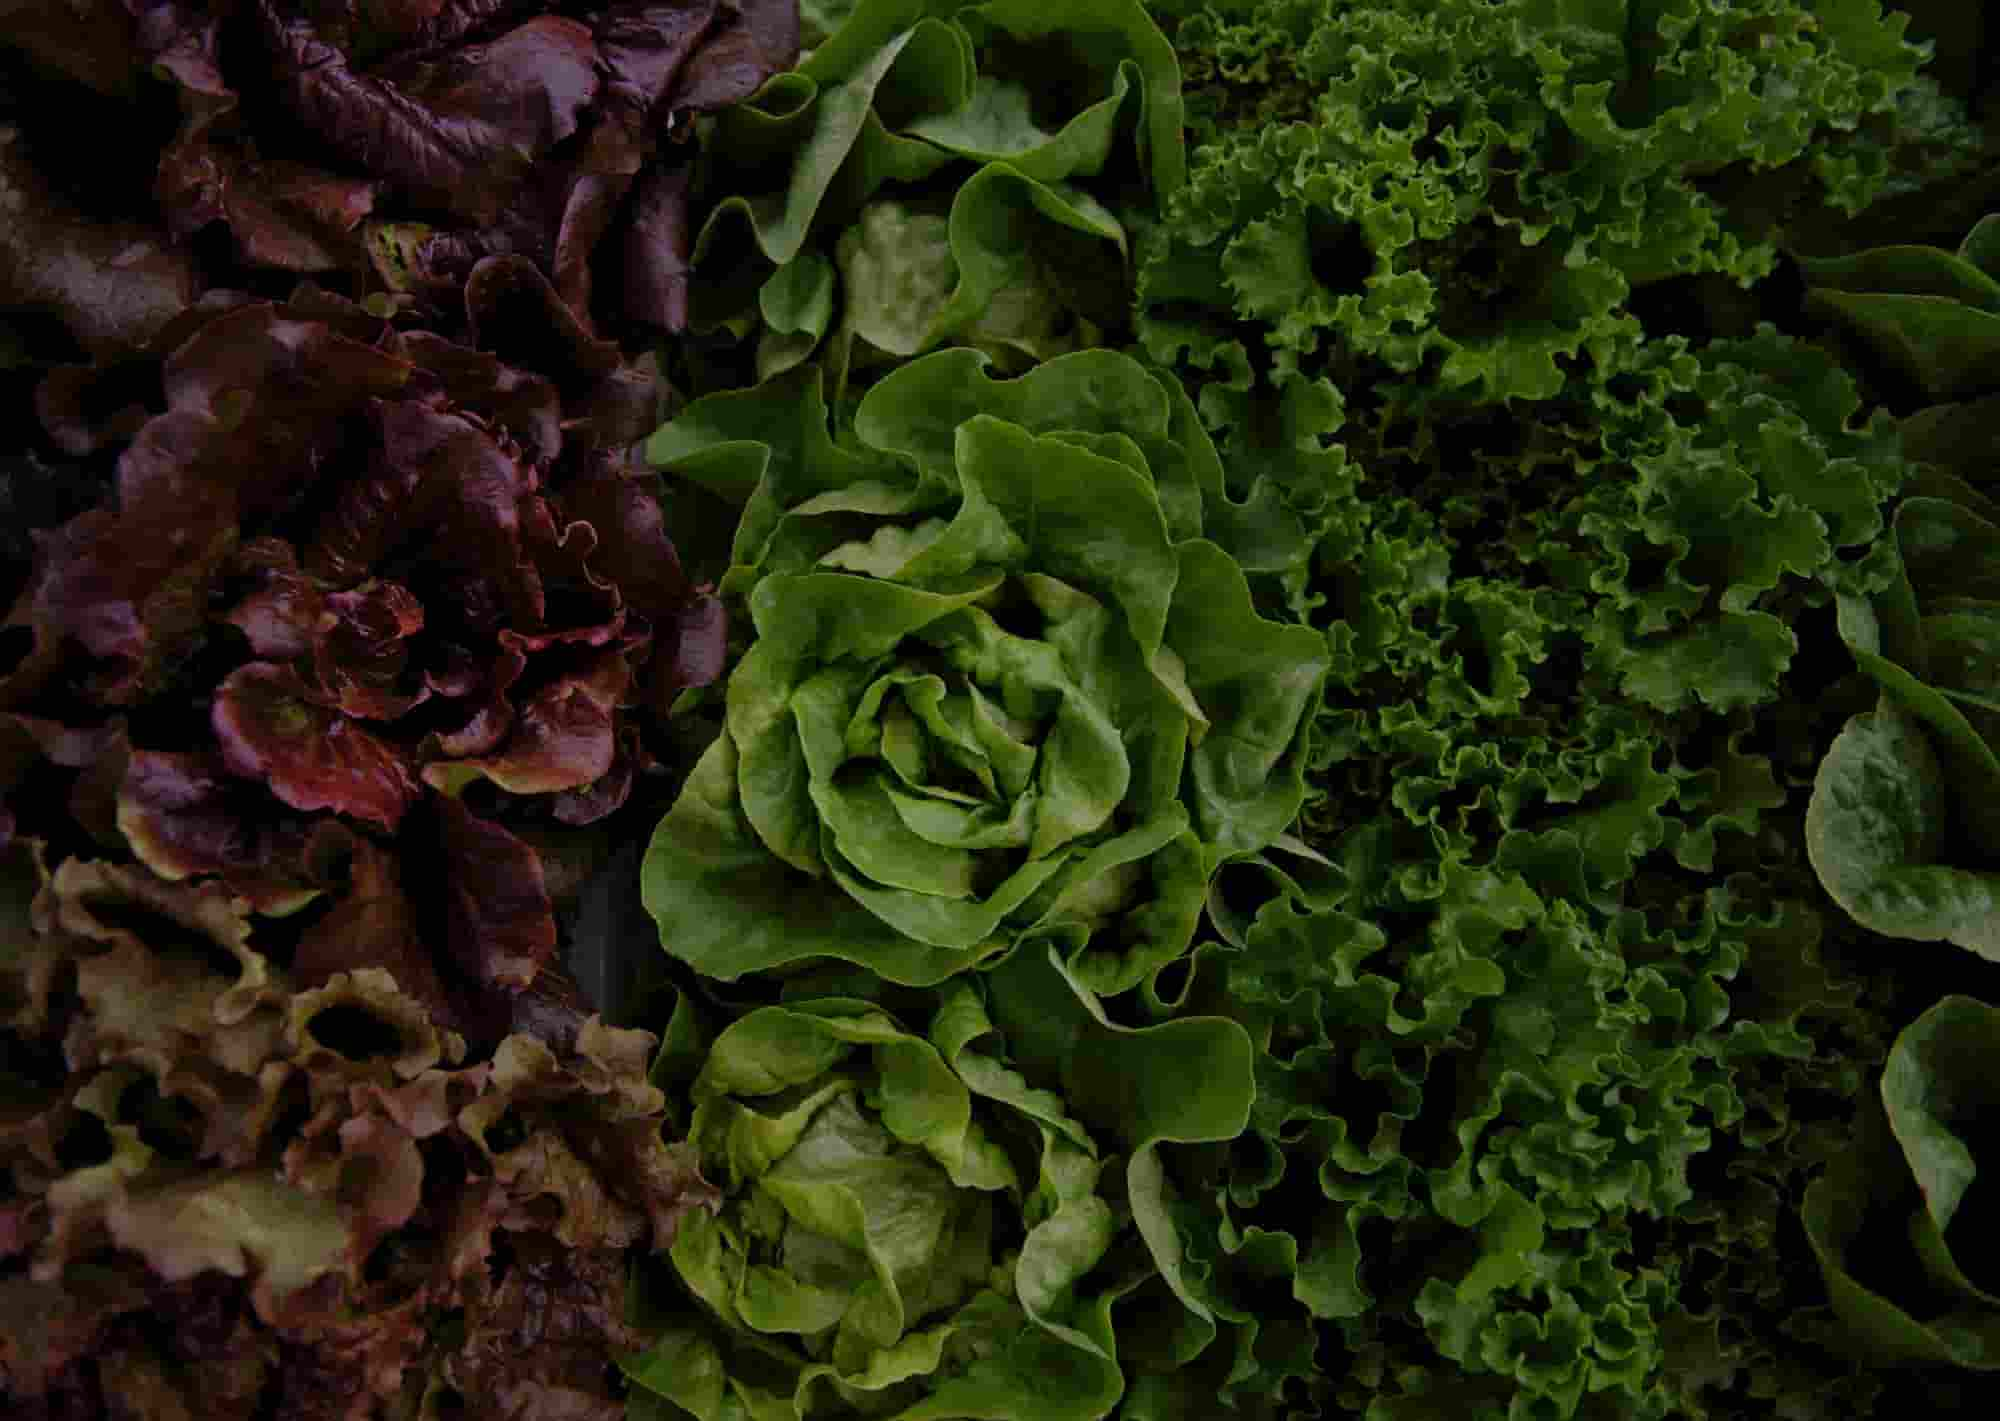
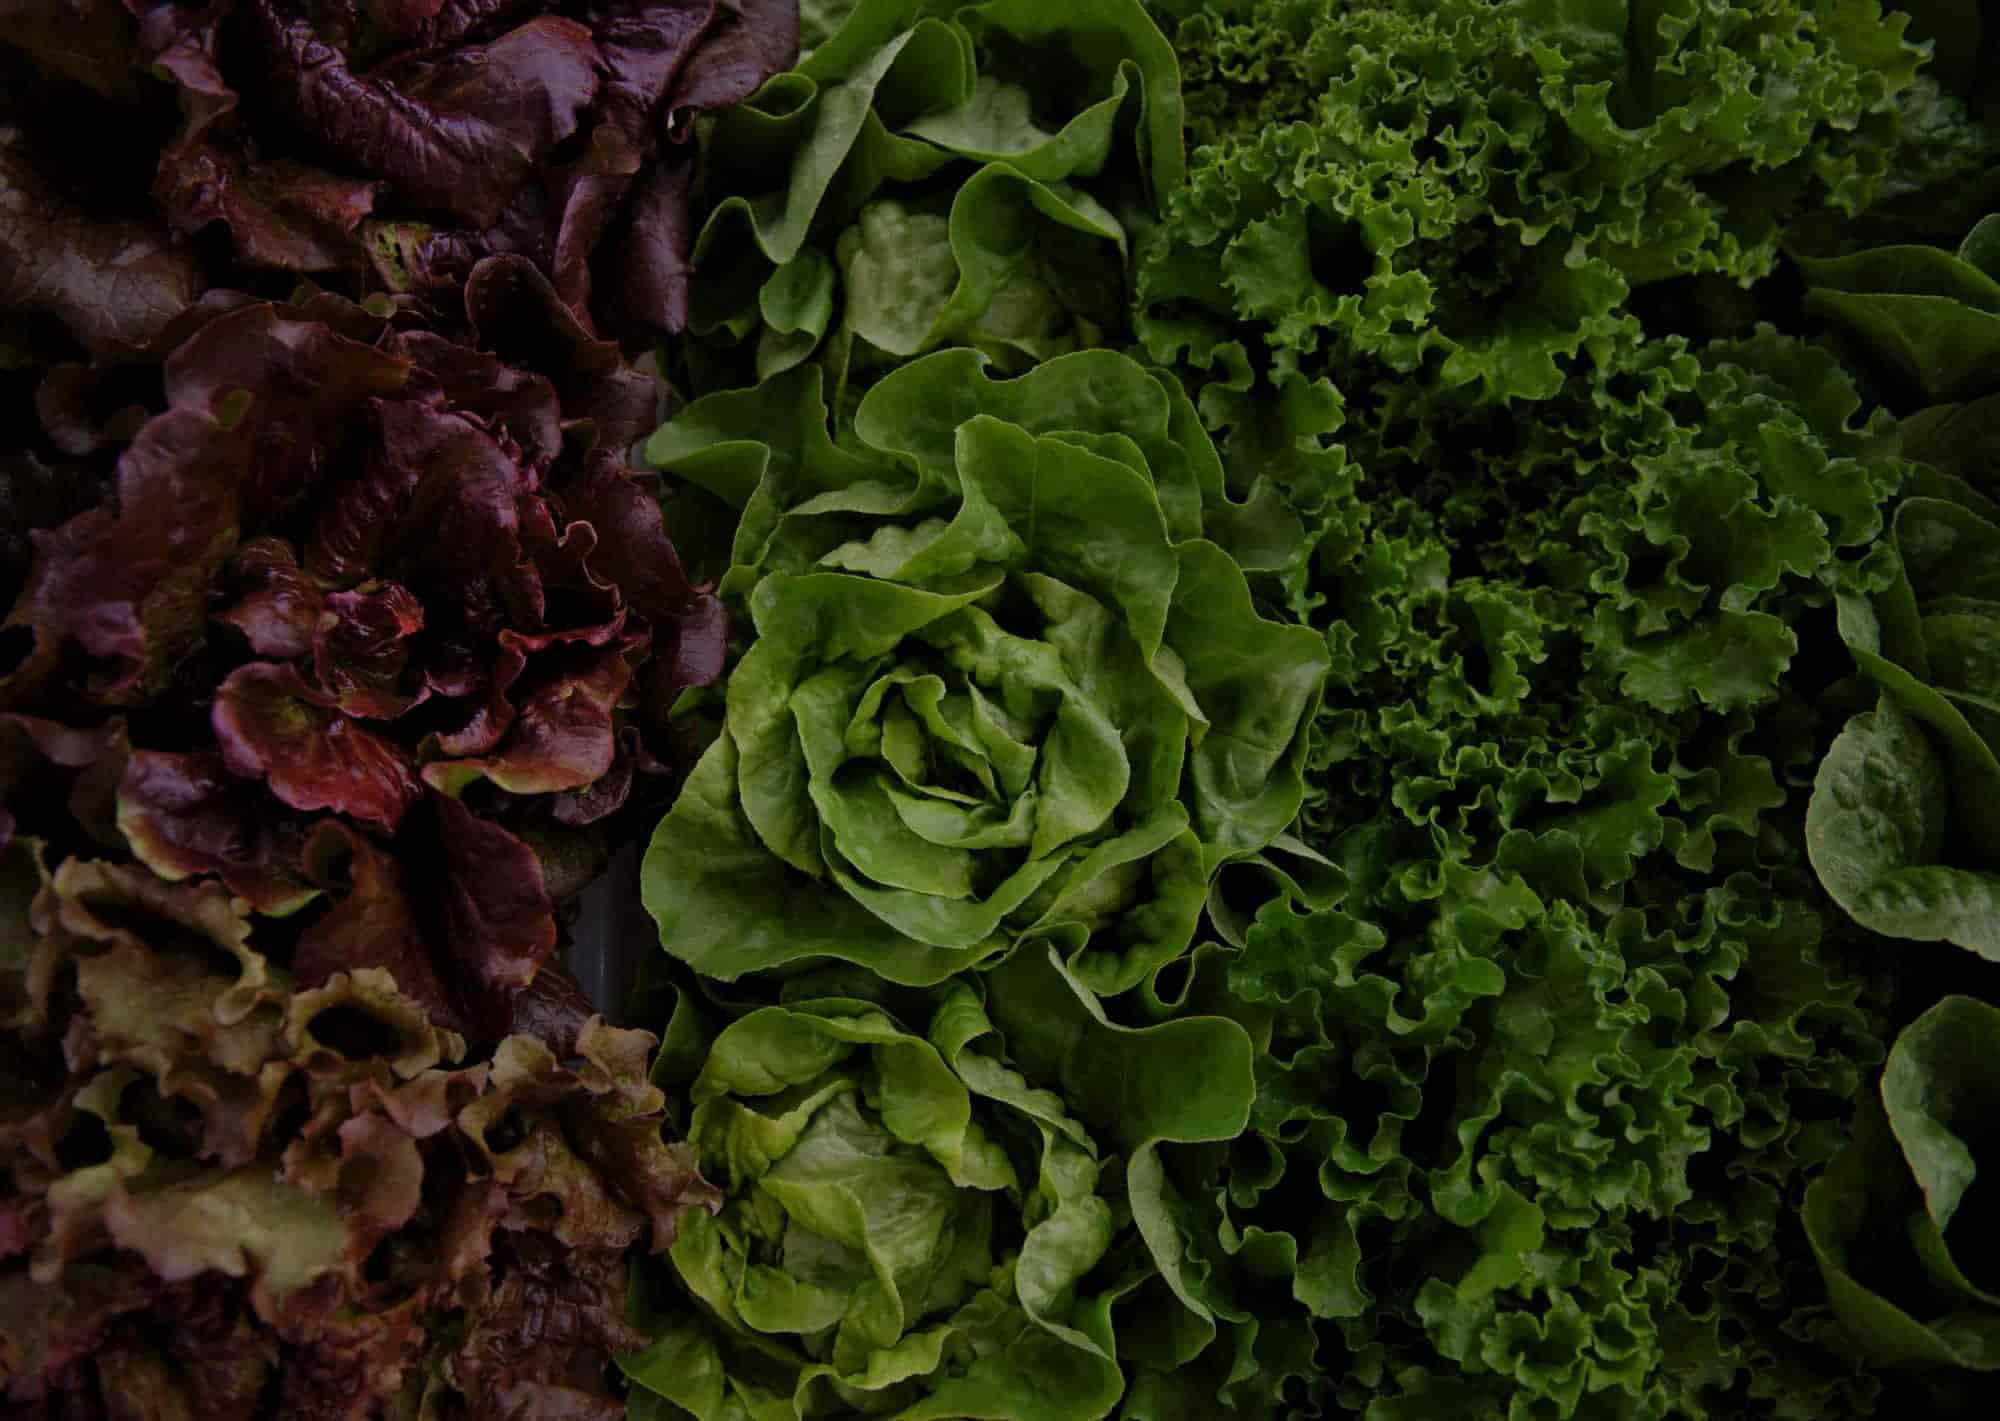
Alter images

diff --git a/style.css b/style.css
@@ -253,7 +253,7 @@ header .nav-select {
 /*-------- HERO ---------*/
 
 .hero {
-  background: url("Images/hero-mobile.jpg") no-repeat center;
+  background: url("Images/hero.jpg") no-repeat center;
   background-size: cover;
   color: var(--white);
   text-align: center;
